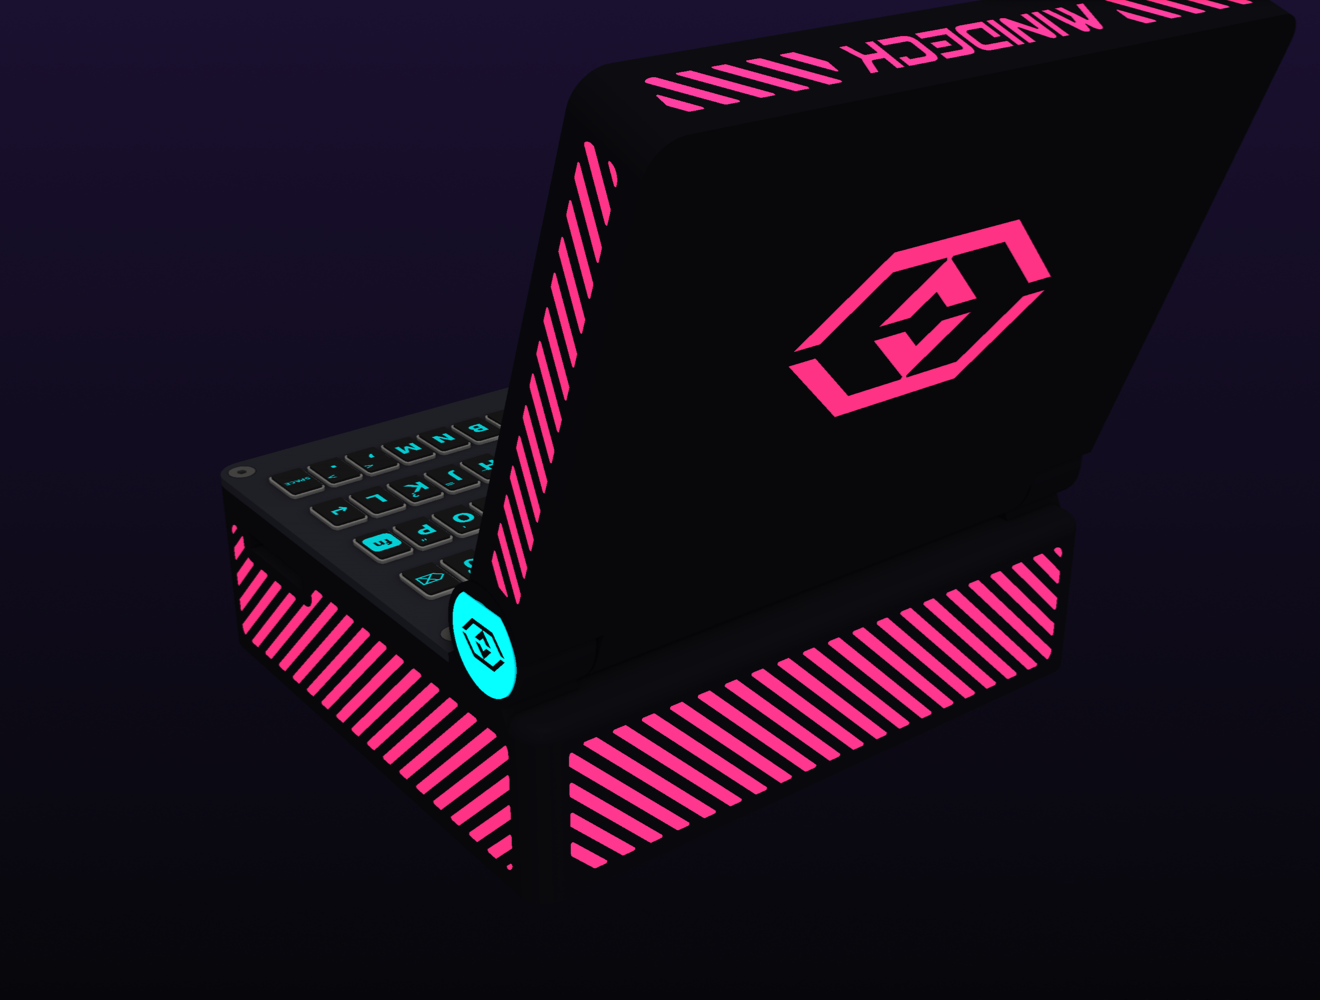
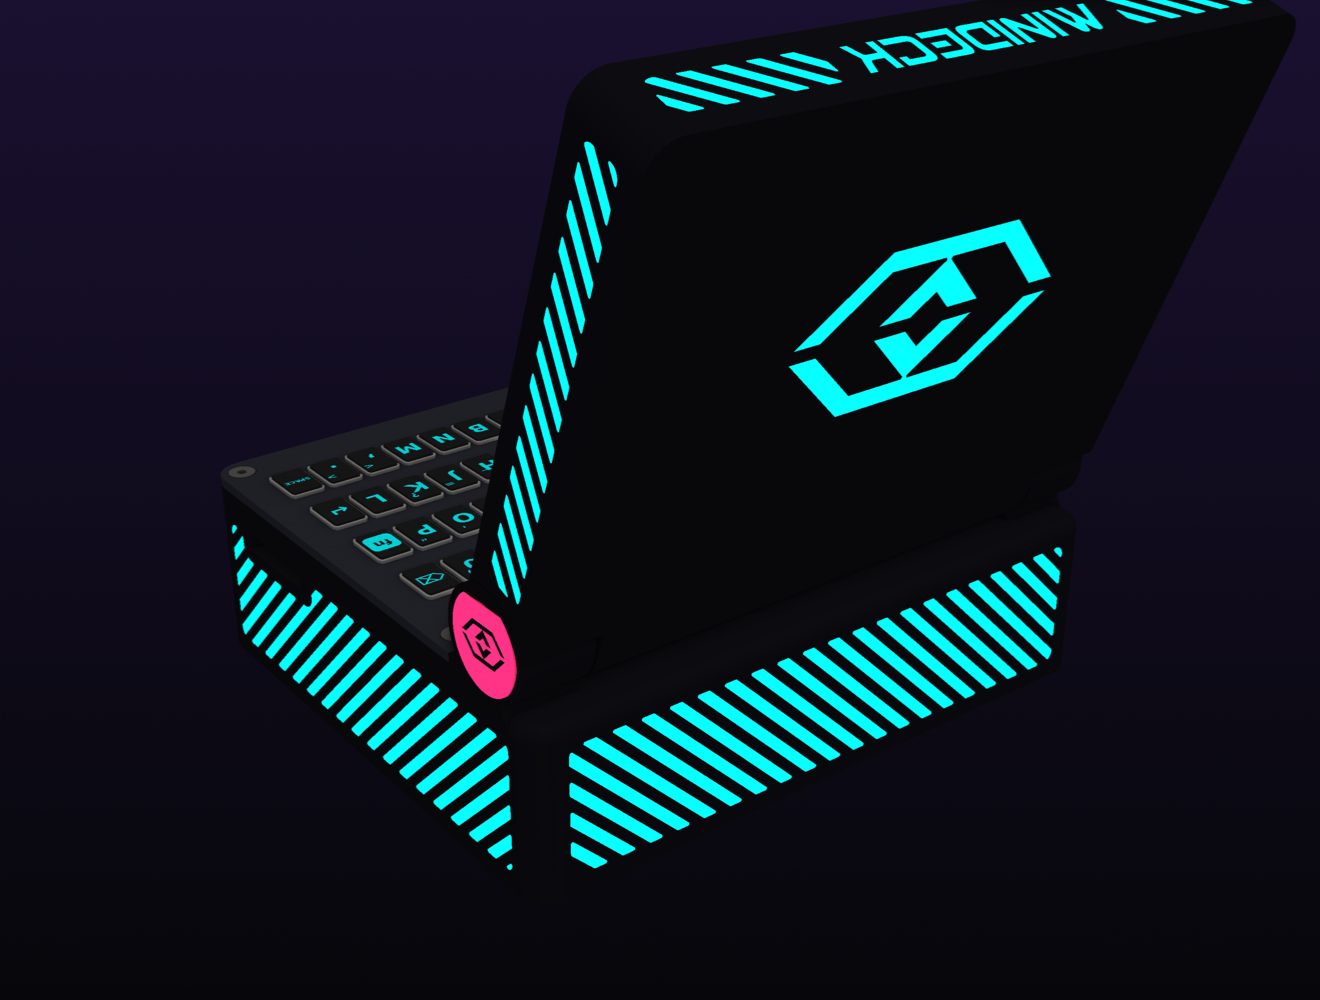
Neon night: swap cyan and magenta accents

diff --git a/viewer.py b/viewer.py
@@ -73,7 +73,7 @@ DARKGREY = "#3d3d3d"                                          # neutral dark gre
 PALETTES = {
     "1": dict(name="Cyber yellow", body=CHARCOAL, plate=GREY, kbplate=DARKGREY, accent=YELLOW, accent2=YELLOW,
               keys="#161616", ink="#f0f0f0", glow=0.0, bg=("#dcdcdc", "#f8f8f8")),
-    "2": dict(name="Neon night", body="#0d0d12", plate="#22232c", accent="#ff2a6d", accent2="#05d9e8",
+    "2": dict(name="Neon night", body="#0d0d12", plate="#22232c", accent="#05d9e8", accent2="#ff2a6d",
               keys="#161618", ink="#05d9e8", glow=0.55, bg=("#07070b", "#1a1030")),
     "3": dict(name="Arasaka", body="#111214", plate="#3b3d42", accent="#e0102a", accent2="#e0102a",
               keys="#161618", ink="#f0f0f0", glow=0.15, bg=("#1b1c20", "#3a3d44")),

diff --git a/README.md b/README.md
@@ -28,7 +28,7 @@ Press keys **1–6** in the viewer to switch palettes live. Palette 1 is the one
 | # | Body | Plate / bezel | Accent | Keys / legends |
 |---|---|---|---|---|
 | 1 | `#2D2D2D` charcoal | `#3D3D3D` dark grey | `#F7D116` cyber yellow | black / white |
-| 2 | `#0D0D12` | `#22232C` | `#FF2A6D` magenta + `#05D9E8` cyan | black / cyan |
+| 2 | `#0D0D12` | `#22232C` | `#05D9E8` cyan + `#FF2A6D` magenta | black / cyan |
 | 3 | `#111214` | `#3B3D42` | `#E0102A` red | black / white |
 | 4 | `#E7E6E1` | `#F6F6F3` | `#FF5A10` orange | white / black |
 | 5 | `#D6C9A8` | `#BFB08C` | `#7A1F2B` maroon | grey / white |
